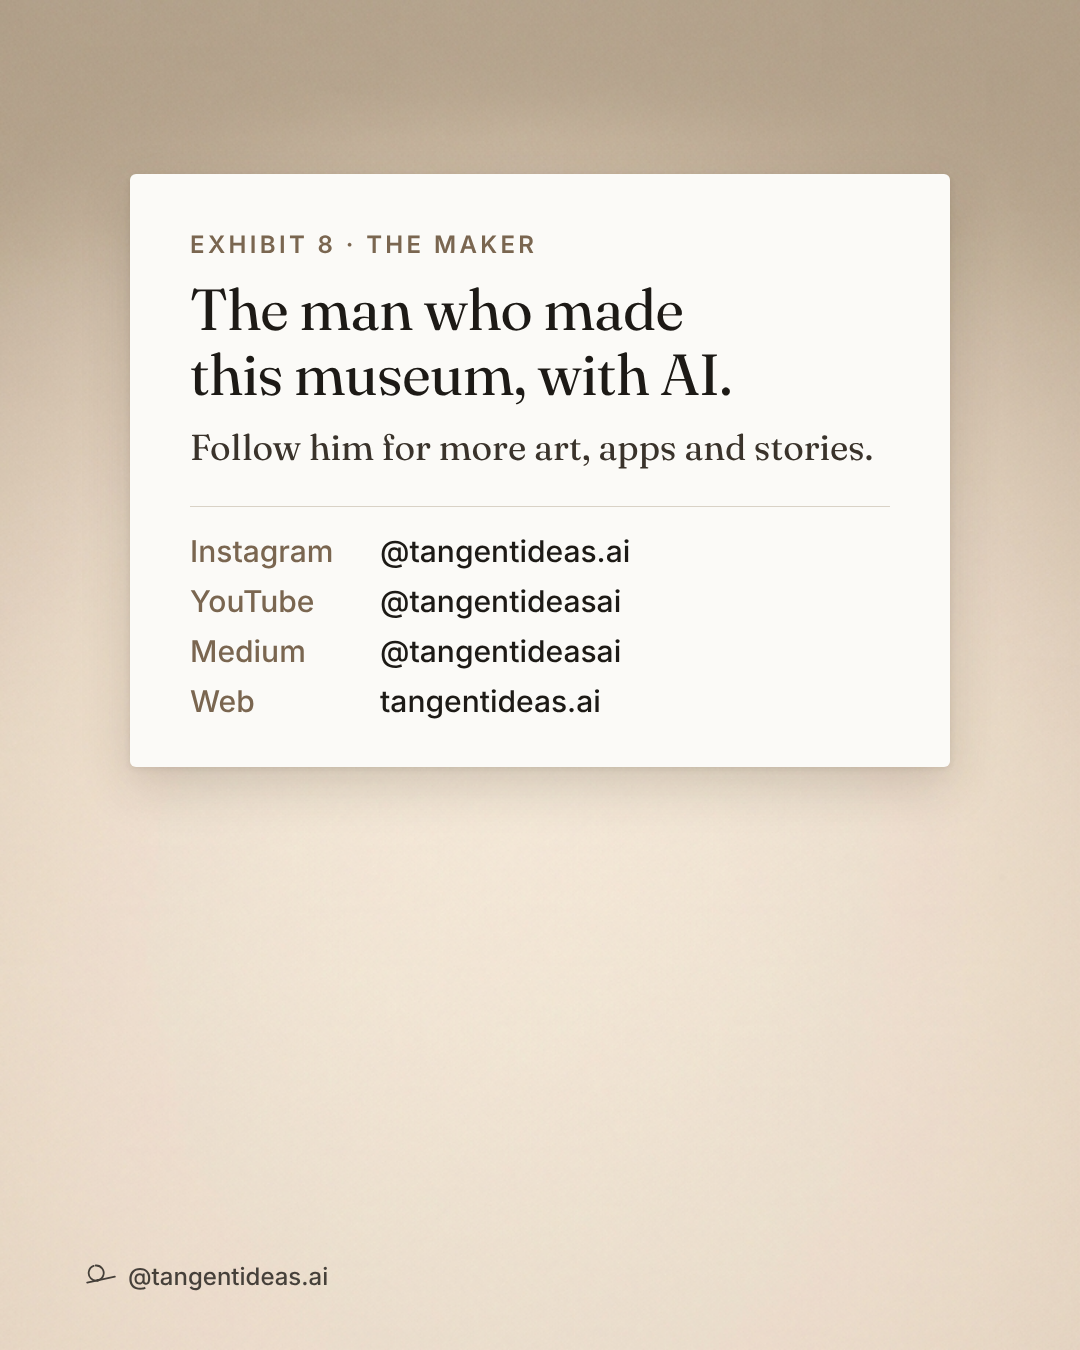
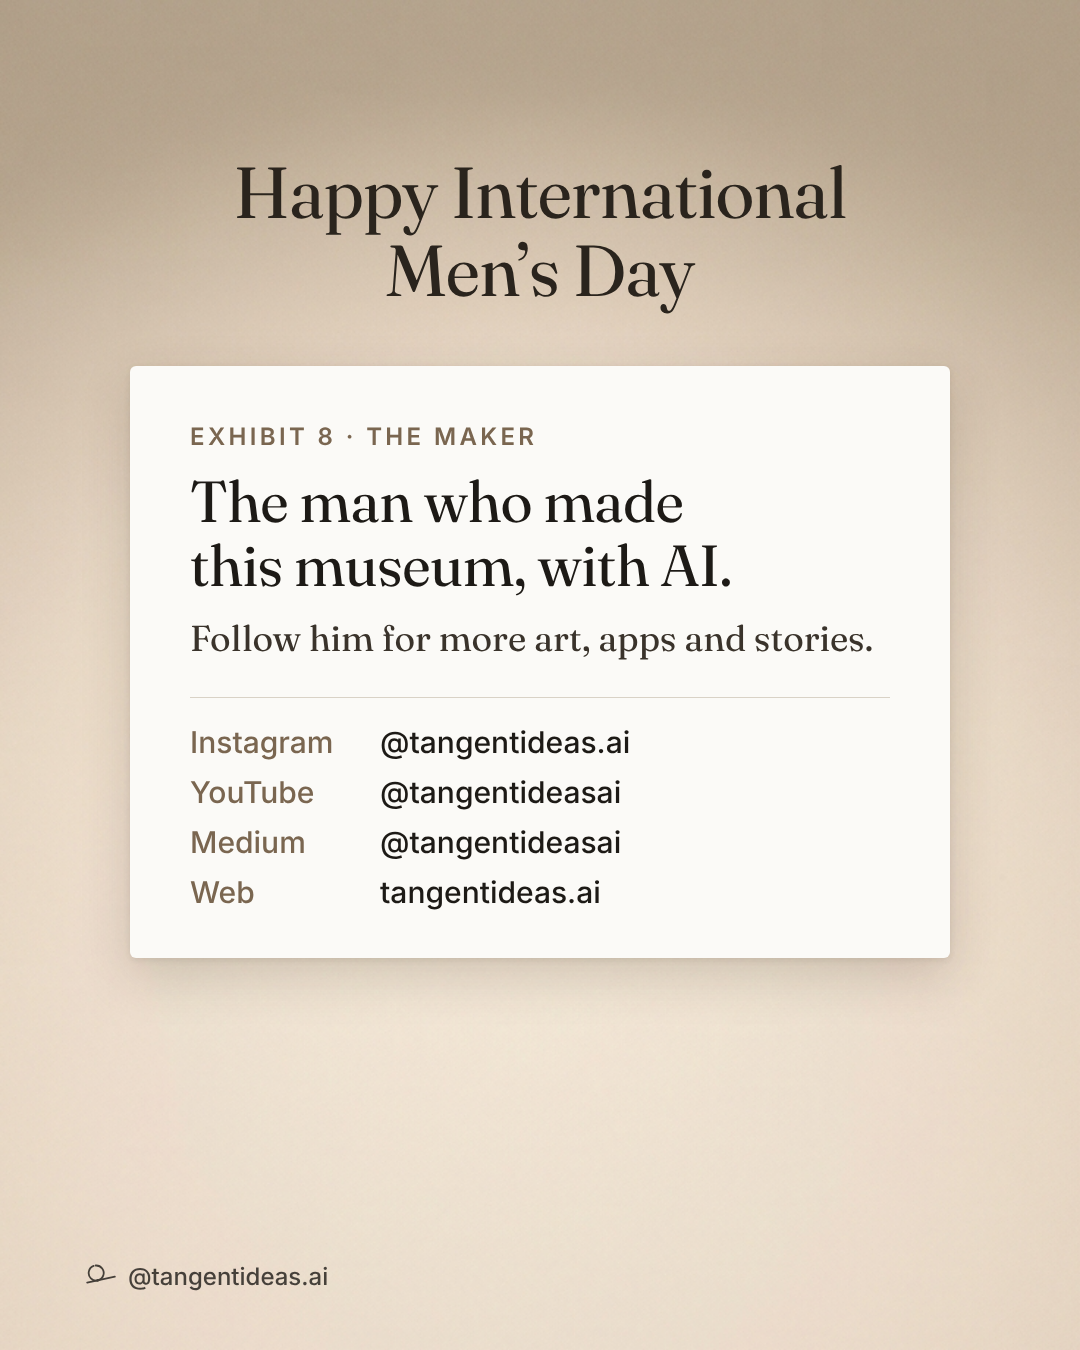
Museum of Men: drop cover subtitle, add Men's Day wall greeting on end card; Drive updated
Claude-Session: https://claude.ai/code/session_01ETPVMQfxYKhapRnTByD51a

Changed region(s): [[0.1222, 0.1244, 0.8861, 0.7156]]

diff --git a/productions/2026-11-museum-of-men/slides/html/slide-10.html b/productions/2026-11-museum-of-men/slides/html/slide-10.html
@@ -11,7 +11,8 @@ h1{margin:18px 0 0;max-width:920px;font:400 66px/1.13 Fraunces,Georgia,serif;let
 .foot{display:flex;justify-content:space-between;align-items:center;font:500 24px Inter;opacity:.8}
 .foot .me{display:flex;gap:12px;align-items:center}
 .dark{color:#f6f1e8} .dark .lbl{color:#e6cfae}
-.card{margin:110px auto 0;width:820px;background:#fbfaf7;border-radius:6px;padding:56px 60px 48px;
+.wall{margin-top:90px;text-align:center;font:400 72px/1.08 Fraunces,Georgia,serif;letter-spacing:-.01em;color:#2a241d}
+.card{margin:56px auto 0;width:820px;background:#fbfaf7;border-radius:6px;padding:56px 60px 48px;
   box-shadow:0 18px 50px rgba(60,45,30,.18),0 2px 6px rgba(60,45,30,.10)}
 .cl{font:600 24px Inter;letter-spacing:.14em;text-transform:uppercase;color:#7a6650}
 .ct{margin-top:18px;font:400 58px/1.12 Fraunces,Georgia,serif;letter-spacing:-.01em;text-wrap:balance}
@@ -20,7 +21,7 @@ h1{margin:18px 0 0;max-width:920px;font:400 66px/1.13 Fraunces,Georgia,serif;let
 .rows{display:grid;gap:14px;font:500 30px Inter}
 .rows span{display:inline-block;width:190px;color:#7a6650;font-weight:500}
 .disc{margin-top:34px;font:400 22px Inter;color:#7a6650}</style></head><body style="background:url('file:///home/user/tangent-social-media/productions/2026-11-museum-of-men/assets/gen/pick/slide-03.png') no-repeat;background-size:2723.4782608695655px 3380.8695652173915px;background-position:-821.7391304347826px 0px"><div class="slide ">
-<div class="card">
+<div class="wall">Happy International<br>Men&rsquo;s Day</div><div class="card">
   <div class="cl">Exhibit 8 &middot; The maker</div>
   <div class="ct">The man who made this museum, with AI.</div>
   <div class="cs">Follow him for more art, apps and stories.</div>

diff --git a/productions/2026-11-museum-of-men/slides-square/html/slide-10.html b/productions/2026-11-museum-of-men/slides-square/html/slide-10.html
@@ -11,7 +11,8 @@ h1{margin:14px 0 0;max-width:940px;font:400 56px/1.12 Fraunces,Georgia,serif;let
 .foot{display:flex;justify-content:space-between;align-items:center;font:500 24px Inter;opacity:.8}
 .foot .me{display:flex;gap:12px;align-items:center}
 .dark{color:#f6f1e8} .dark .lbl{color:#e6cfae}
-.card{margin:44px auto 0;width:800px;background:#fbfaf7;border-radius:6px;padding:44px 56px 38px;
+.wall{margin-top:40px;text-align:center;font:400 60px/1.08 Fraunces,Georgia,serif;letter-spacing:-.01em;color:#2a241d}
+.card{margin:34px auto 0;width:800px;background:#fbfaf7;border-radius:6px;padding:44px 56px 38px;
   box-shadow:0 18px 50px rgba(60,45,30,.18),0 2px 6px rgba(60,45,30,.10)}
 .cl{font:600 24px Inter;letter-spacing:.14em;text-transform:uppercase;color:#7a6650}
 .ct{margin-top:14px;font:400 50px/1.12 Fraunces,Georgia,serif;letter-spacing:-.01em;text-wrap:balance}
@@ -20,7 +21,7 @@ h1{margin:14px 0 0;max-width:940px;font:400 56px/1.12 Fraunces,Georgia,serif;let
 .rows{display:grid;gap:10px;font:500 27px Inter}
 .rows span{display:inline-block;width:190px;color:#7a6650;font-weight:500}
 .disc{margin-top:26px;font:400 22px Inter;color:#7a6650}</style></head><body style="background:url('file:///home/user/tangent-social-media/productions/2026-11-museum-of-men/assets/gen/pick/slide-03.png') no-repeat;background-size:2723.4782608695655px 3380.8695652173915px;background-position:-821.7391304347826px 0px"><div class="slide ">
-<div class="card">
+<div class="wall">Happy International<br>Men&rsquo;s Day</div><div class="card">
   <div class="cl">Exhibit 8 &middot; The maker</div>
   <div class="ct">The man who made this museum, with AI.</div>
   <div class="cs">Follow him for more art, apps and stories.</div>

diff --git a/productions/2026-11-museum-of-men/slides-square/html/slide-01.html b/productions/2026-11-museum-of-men/slides-square/html/slide-01.html
@@ -16,7 +16,6 @@ h1{margin:14px 0 0;max-width:940px;font:400 56px/1.12 Fraunces,Georgia,serif;let
 .sub{margin-top:16px;font:400 50px/1.15 Fraunces,Georgia,serif}
 .ex{margin-top:22px;font:500 26px Inter;color:#7a6650}</style></head><body style="background:url('file:///home/user/tangent-social-media/productions/2026-11-museum-of-men/assets/gen/pick/slide-01.png') no-repeat;background-size:1080px 1340.6896551724137px;background-position:0px -174.56896551724137px"><div class="slide ">
 <div class="cov"><h1 class="t">The Museum of Men</h1>
-<div class="sub">Things men never throw away</div>
-<div class="ex">An exhibition for International Men&rsquo;s Day, 19 November</div></div><div class="spacer"></div>
+<div class="sub">Things men never throw away</div></div><div class="spacer"></div>
 <div class="foot"><span class="me"><svg viewBox="0 0 120 120" fill="none" width="36" height="36" style="color:currentColor"><path d="M 52.26 25.06 A 25 25 0 1 1 45.45 26.5" stroke="currentColor" stroke-width="6" stroke-linecap="round"/><line x1="24" y1="82" x2="116.2" y2="62.4" stroke="currentColor" stroke-width="6" stroke-linecap="round"/><circle cx="59.2" cy="74.5" r="4.85" fill="currentColor"/></svg><span>@tangentideas.ai</span></span><span>Swipe &rarr;</span></div>
 </div></body></html>

diff --git a/productions/2026-11-museum-of-men/slides/html/slide-01.html b/productions/2026-11-museum-of-men/slides/html/slide-01.html
@@ -16,7 +16,6 @@ h1{margin:18px 0 0;max-width:920px;font:400 66px/1.13 Fraunces,Georgia,serif;let
 .sub{margin-top:22px;font:400 58px/1.15 Fraunces,Georgia,serif}
 .ex{margin-top:30px;font:500 26px Inter;color:#7a6650}</style></head><body style="background:url('file:///home/user/tangent-social-media/productions/2026-11-museum-of-men/assets/gen/pick/slide-01.png') center/cover no-repeat #eee"><div class="slide ">
 <div class="cov"><h1 class="t">The Museum of Men</h1>
-<div class="sub">Things men never throw away</div>
-<div class="ex">An exhibition for International Men&rsquo;s Day, 19 November</div></div><div class="spacer"></div>
+<div class="sub">Things men never throw away</div></div><div class="spacer"></div>
 <div class="foot"><span class="me"><svg viewBox="0 0 120 120" fill="none" width="36" height="36" style="color:currentColor"><path d="M 52.26 25.06 A 25 25 0 1 1 45.45 26.5" stroke="currentColor" stroke-width="6" stroke-linecap="round"/><line x1="24" y1="82" x2="116.2" y2="62.4" stroke="currentColor" stroke-width="6" stroke-linecap="round"/><circle cx="59.2" cy="74.5" r="4.85" fill="currentColor"/></svg><span>@tangentideas.ai</span></span><span>Swipe &rarr;</span></div>
 </div></body></html>

diff --git a/productions/2026-11-museum-of-men/README.md b/productions/2026-11-museum-of-men/README.md
@@ -90,3 +90,10 @@ last two exhibits turn warm: what he gives up, and his phone, so call him.
 - 2026-11-19: Sparsh kept the end card as it is. SHIP reconfirmed.
 - 2026-11-19: uploaded to Google Drive folder "Post 6" (1ZVuaqY1jfNxs3Ei7RInOgJmEbe-Erj_7):
   slide-01..10.png (square; byte sizes match the local files) and caption.txt.
+- 2026-11-19: Sparsh's edits:
+  - cover: the "An exhibition for International Men's Day, 19 November" subtitle is removed;
+  - end card: "Happy International Men's Day" added as Fraunces wall lettering above the label
+    card.
+  Both builds re-rendered.
+  - Drive "Post 6": the old slide-01/slide-10 were moved to Drive trash (recoverable) and the new
+    ones uploaded. Sizes match: 1651671 and 880977 bytes.
